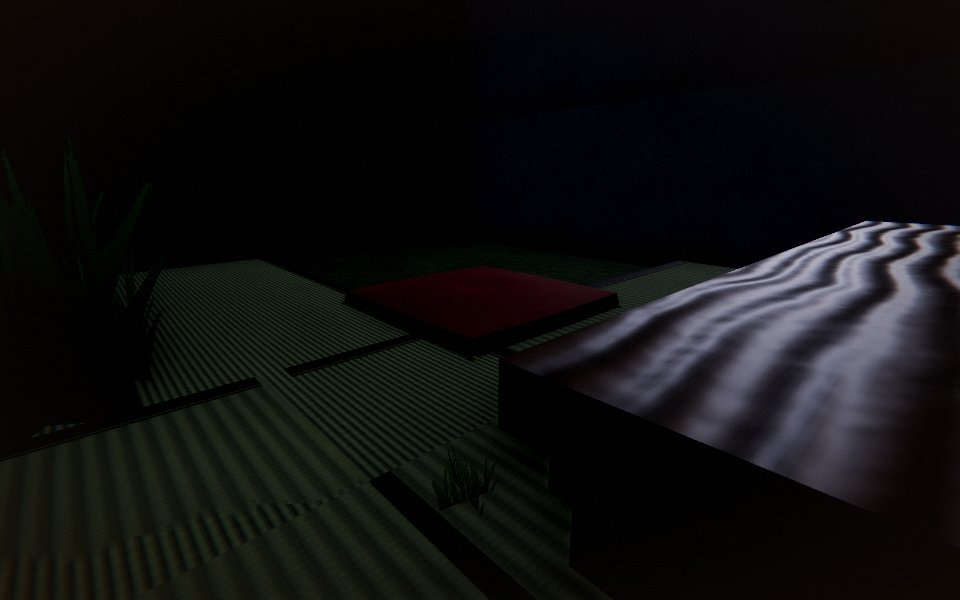
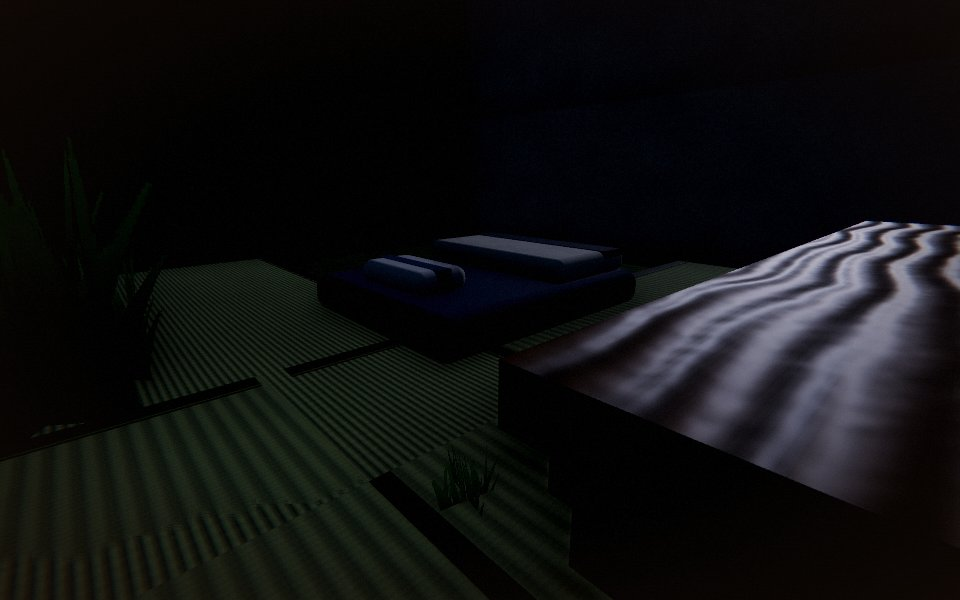
v-interiors-b: pre-review fixes (revert budgets change, secret-bed as a futon)

Changed region(s): [[0.375, 0.39, 0.6562, 0.54], [0.3125, 0.48, 0.4688, 0.6]]

diff --git a/src/kit/interiors/secret.js b/src/kit/interiors/secret.js
@@ -4,11 +4,12 @@
 // classic numbers of meshSecret*Classic in src/countryside.js). Reuses part a's
 // builders (tatami, teaware, platter, zabuton) and the lanterns family's andon.
 import * as THREE from 'three';
+import { RoundedBoxGeometry } from 'three/addons/geometries/RoundedBoxGeometry.js';
 import { Bag } from '../craft.js?v=20261113a';
 import { buildAndon } from '../lanterns/build.js?v=20261113a';
 import { TexBag, roomMats, bagMesh, groupOf, tierFlags } from './common.js?v=20261113a';
 import { buildTatami } from './room.js?v=20261113a';
-import { buildTeaware, buildFishPlatter, buildZabuton } from './small.js?v=20261113a';
+import { buildTeaware, buildFishPlatter } from './small.js?v=20261113a';
 
 const SECRET_MATS = [[-1.15, 0.04, -1.15, false], [1.15, 0.04, -1.15, false], [-1.15, 0.04, 1.15, false], [1.15, 0.04, 1.15, false], [-2.3, 0.04, 0, true], [2.3, 0.04, 0, true]];
 
@@ -56,14 +57,30 @@ function addSet(t, ctx, tier) {
   return t;
 }
 
-/** The nap cushion, origin at its middle (y 0.07 in the house): the tea room's zabuton scaled to 0.75 m. */
+/** Futon colourways: [shikibuton, kakebuton trim, makura band]. Muted, never cushion red. */
+export const FUTONS = { indigo: [0x3d4c6b, 0x2f3b55, 0x4a5d82], moss: [0x55663f, 0x44532f, 0x687a4e], plum: [0x5d4558, 0x4a3646, 0x745a6c] };
+const CREAM = 0xe9dfc6;
+/**
+ * The nap spot as a futon: a thick rounded shikibuton, a folded kakebuton
+ * quilt across the far half and a small pillow (makura) at the head. Origin at
+ * the middle of the old cushion (the house places it at y 0.07, the tatami top
+ * is 0.08, so local y 0.01 is the mat surface); the nap anchor is unchanged.
+ */
 export function buildSecretBed(ctx, L = {}, tier = 'hero', o = {}) {
-  const z = buildZabuton(ctx, {}, tier, o);
-  const cushion = z.children[0], k = 0.75 / 0.9;
-  cushion.scale.setScalar(k);
-  cushion.position.y = -0.07;
+  const { hi, far } = tierFlags(tier), m = roomMats(ctx), bag = new Bag();
+  const [c1, c2, c3] = FUTONS[o.cloth] || FUTONS.indigo;
+  const seg = far ? 1 : hi ? 4 : 2, y0 = 0.01;
+  const rb = (w, h, d, r) => new RoundedBoxGeometry(w, h, d, seg, r);
+  bag.add(rb(0.78, 0.13, 0.96, 0.05), { y: y0 + 0.065, color: c1 });                         // shikibuton
+  bag.add(rb(0.7, 0.085, 0.4, 0.035), { y: y0 + 0.13 + 0.04, z: -0.22, color: CREAM });        // the folded kakebuton
+  if (!far) {
+    bag.add(rb(0.7, 0.03, 0.12, 0.012), { y: y0 + 0.13 + 0.07, z: -0.34, color: c2 });          // its dyed fold edge
+    bag.add(rb(0.34, 0.075, 0.2, 0.035), { y: y0 + 0.13 + 0.035, z: 0.3, color: 0xf1ebdc });     // the makura
+    bag.box(0.345, 0.078, 0.05, { y: y0 + 0.13 + 0.035, z: 0.3, color: c3 });                    // its band
+    bag.box(0.8, 0.012, 0.02, { y: y0 + 0.07, z: 0.0, color: c2 });                              // a stitched seam across the mattress
+  }
   const g = new THREE.Group();
-  g.add(cushion);
+  g.add(bagMesh(bag, m.bag, 'cushion'));
   return g;
 }
 

diff --git a/src/kit/interiors/index.js b/src/kit/interiors/index.js
@@ -13,7 +13,7 @@ import { buildTatami, buildFrame, buildDoor, buildTokonoma, buildScroll, buildCh
 import { buildZabuton, buildBonsai, buildTeaware, buildKnickKnacks, CUSHIONS, FOLIAGE, GLAZES } from './small.js?v=20261113a';
 import { buildTeaInterior } from './tea.js?v=20261113a';
 import { buildGravel, buildCourtWall } from './court.js?v=20261113a';
-import { buildSecretTatami, buildSecretTable, buildSecretBed, buildSecretAndon } from './secret.js?v=20261113a';
+import { buildSecretTatami, buildSecretTable, buildSecretBed, buildSecretAndon, FUTONS } from './secret.js?v=20261113a';
 import { paperMat, shojiLight } from './common.js?v=20261113a';
 
 const enumOf = (obj, def, label) => ({ type: 'enum', default: def, options: Object.keys(obj), label });
@@ -127,8 +127,8 @@ export const assets = [
   defineAsset({ id: 'secret-tatami', family: 'interiors', lab: 'interiors/secret-tatami', label: 'Secret-house tatami', legacyName: 'Tatami Floor', params: {}, sample: SECRET.tatami, build: standaloneL(buildSecretTatami) }),
   defineAsset({ id: 'secret-table', family: 'interiors', lab: 'interiors/secret-table', label: 'Secret-house chabudai', legacyName: 'Chabudai Table', params: {}, sample: SECRET.table, build: standaloneL(buildSecretTable) }),
   defineAsset({
-    id: 'secret-bed', family: 'interiors', lab: 'interiors/secret-bed', label: 'Secret-house nap cushion', legacyName: 'Nap Cushion',
-    params: { cushion: enumOf(CUSHIONS, 'crimson', 'Cushion') }, sample: SECRET.bed, build: standaloneL(buildSecretBed)
+    id: 'secret-bed', family: 'interiors', lab: 'interiors/secret-bed', label: 'Secret-house futon', legacyName: 'Nap Cushion',
+    params: { cloth: enumOf(FUTONS, 'indigo', 'Futon cloth') }, sample: SECRET.bed, build: standaloneL(buildSecretBed)
   }),
   defineAsset({ id: 'secret-andon', family: 'interiors', lab: 'interiors/secret-andon', label: 'Secret-house andon', legacyName: 'Andon Lantern', params: { flame }, sample: SECRET.andon, build: (ctx, layout, p) => buildSecretAndon(ctx, layout, p) })
 ];

diff --git a/src/kit/budgets.js b/src/kit/budgets.js
@@ -54,7 +54,16 @@ export const BUDGET_EXCEPTIONS = Object.freeze({
     mid: { triangles: 13000 },
     why: '11 m valley runs build 12,660 mid tris (contract sample 3.4 m); ruling R51; a1-village lightens the mid tier and removes this'
   },
-  'tea-interior': { hero: { meshes: 34, materials: 12, buildMs: 14 }, mid: { triangles: 9500, meshes: 34, materials: 12, buildMs: 9 }, far: { triangles: 3000, meshes: 24, materials: 11, buildMs: 5 }, why: 'the whole room as one asset (every classic sub-part plus courtyard, andon and toro); far is not a real LOD, the room is only seen from inside; warm build re-measured 10.8-12.1 ms hero / 6.2-7.3 ms mid on the M5 Max with sibling lanes running (part a measured 6.4 / 4.1 idle), so buildMs 14 / 9' },
+  'tea-interior': { hero: { meshes: 34, materials: 12, buildMs: 9 }, mid: { triangles: 9500, meshes: 34, materials: 12, buildMs: 6 }, far: { triangles: 3000, meshes: 24, materials: 11, buildMs: 5 }, why: 'the whole room as one asset (every classic sub-part plus courtyard, andon and toro); far is not a real LOD, the room is only seen from inside' },
+  // whole buildings (ruling R52); measured with kit_contract_test --family machiya
+  'tea-house': {
+    hero: { materials: 8, buildMs: 12 }, mid: { materials: 5 },
+    why: 'a whole building: plaster x2, roof tile, shoji, namako skirt, kit bag, reused bamboo-fence (8 hero / 5 mid); classic is 5 box materials in ~40 meshes'
+  },
+  'residence': {
+    hero: { materials: 8, buildMs: 12 }, mid: { materials: 5 },
+    why: 'a whole building: plaster x2, roof tile, shoji, namako skirt, kit bag, reused bamboo-fence (8 hero / 5 mid); classic is 5 box materials'
+  },
   // 'tea-house': { hero: { triangles: 40000, meshes: 40 }, why: 'a whole building with interior-facing walls' }
   // v-hidden: the two wholes are whole clearings (see docs/fable/handoff/v-hidden.md for measured numbers)
   'moon-pool': {

diff --git a/docs/fable/handoff/v-interiors-b.md b/docs/fable/handoff/v-interiors-b.md
@@ -2,8 +2,8 @@
 
 Ids (all `family: 'interiors'`): courtyard-gravel, courtyard-wall, secret-tatami, secret-table, secret-bed, secret-andon. New files: src/kit/interiors/court.js, secret.js; index.js only appends (part a untouched). src/kit/index.js regenerated (unchanged: the family already exported).
 
-## 1. Budgets (src/kit/budgets.js, committed in-lane)
-No new exception for the six. tea-interior's warm-build allowance was too tight for a loaded machine (10.8-12.1 ms hero / 6.2-7.3 ms mid measured with sibling lanes running; part a measured 6.4 / 4.1 idle): `buildMs` 9/6 became 14/9, `why` updated.
+## 1. Budgets
+No change to src/kit/budgets.js. None of the six needed an exception.
 
 ## 2. Inventory / catalog (hot: labs/asset_inventory.json)
 Lab evidence targets (`kind: "bench"`, `file: "labs/interiors/js/specimens_b.js"`), add next to `interiors/knockables`:
@@ -17,7 +17,7 @@ Lab evidence targets (`kind: "bench"`, `file: "labs/interiors/js/specimens_b.js"
 Coverage rows: courtyard-wall -> interiors/courtyard-wall (direct, replacing the `interiors/garden` embedded entry); secret-tatami / secret-table / secret-bed / secret-andon -> their `interiors/<id>` (direct; keep `machiya/original-secret` as a second, embedded entry if wanted). courtyard-gravel already has `rocks/rake` (direct). Then `node tools/labs_coverage.mjs --write`. Production adapter ids `interiors/<id>` for the six. (specimens.js got its three lines appended at the end so no line anchor moved: labs_check stays green.)
 
 ## 3. Part names (public)
-courtyard-gravel {gravel, rake, stones}; courtyard-wall {wall, trim, cap}; secret-tatami {mats, heri}; secret-table {top, legs, set, dish; far: top, set, dish}; secret-bed {cushion}; secret-andon {frame, paper}. No `layout.bind` parts on any of the six (the table's `fishMesh` bind belongs to its secret-fish component).
+courtyard-gravel {gravel, rake, stones}; courtyard-wall {wall, trim, cap}; secret-tatami {mats, heri}; secret-table {top, legs, set, dish; far: top, set, dish}; secret-bed {cushion} (a futon: rounded shikibuton, folded kakebuton, makura; param `cloth` indigo/moss/plum); secret-andon {frame, paper}. No `layout.bind` parts on any of the six (the table's `fishMesh` bind belongs to its secret-fish component).
 
 ## 4. Footprint / gameplay
 No waivers. The six carry the classic empty `footprint`; the house's table box, platform and door stay layout data. Nap anchors (tea room zabuton) are part a's and unchanged; the secret bed has no anchor in classic either. The kit andon is scaled 0.82 (frame 0.44 m becomes 0.36 vs classic 0.40, height 0.72).
